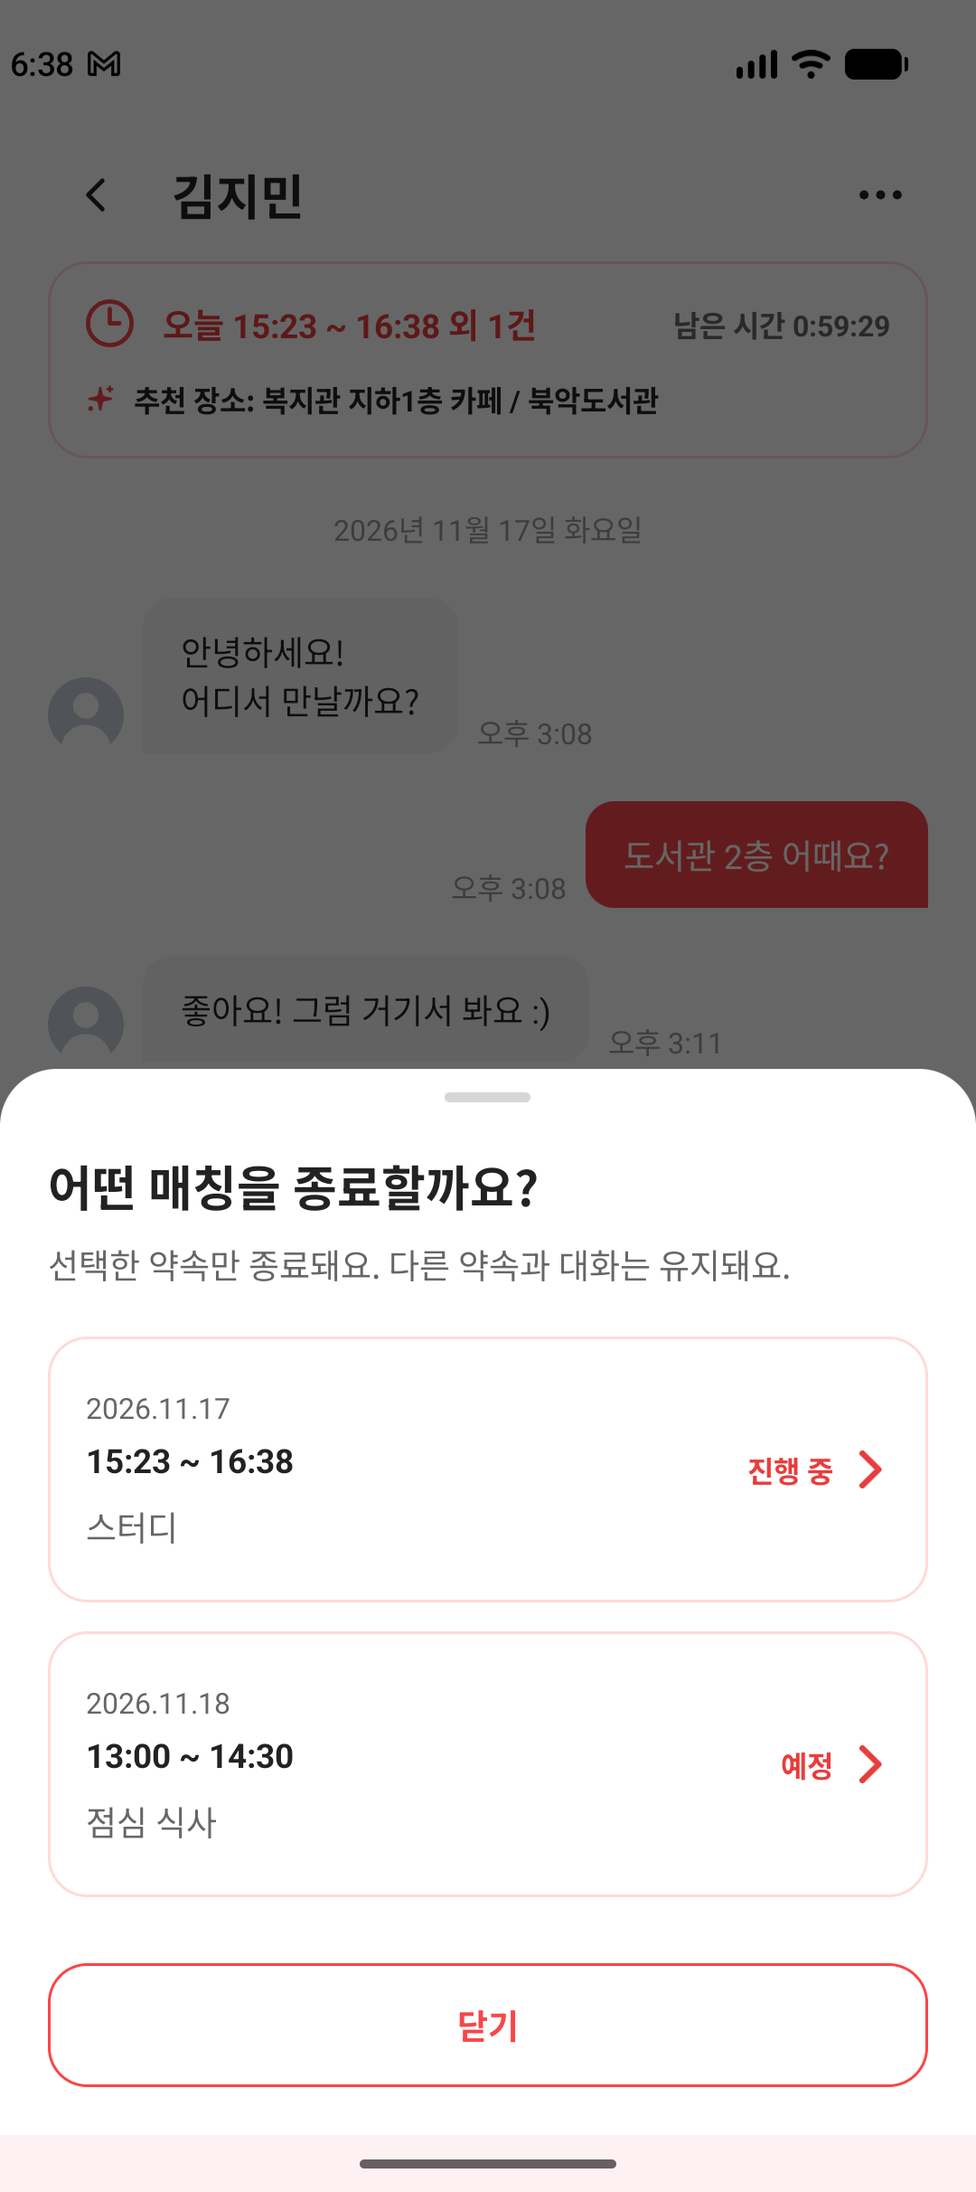
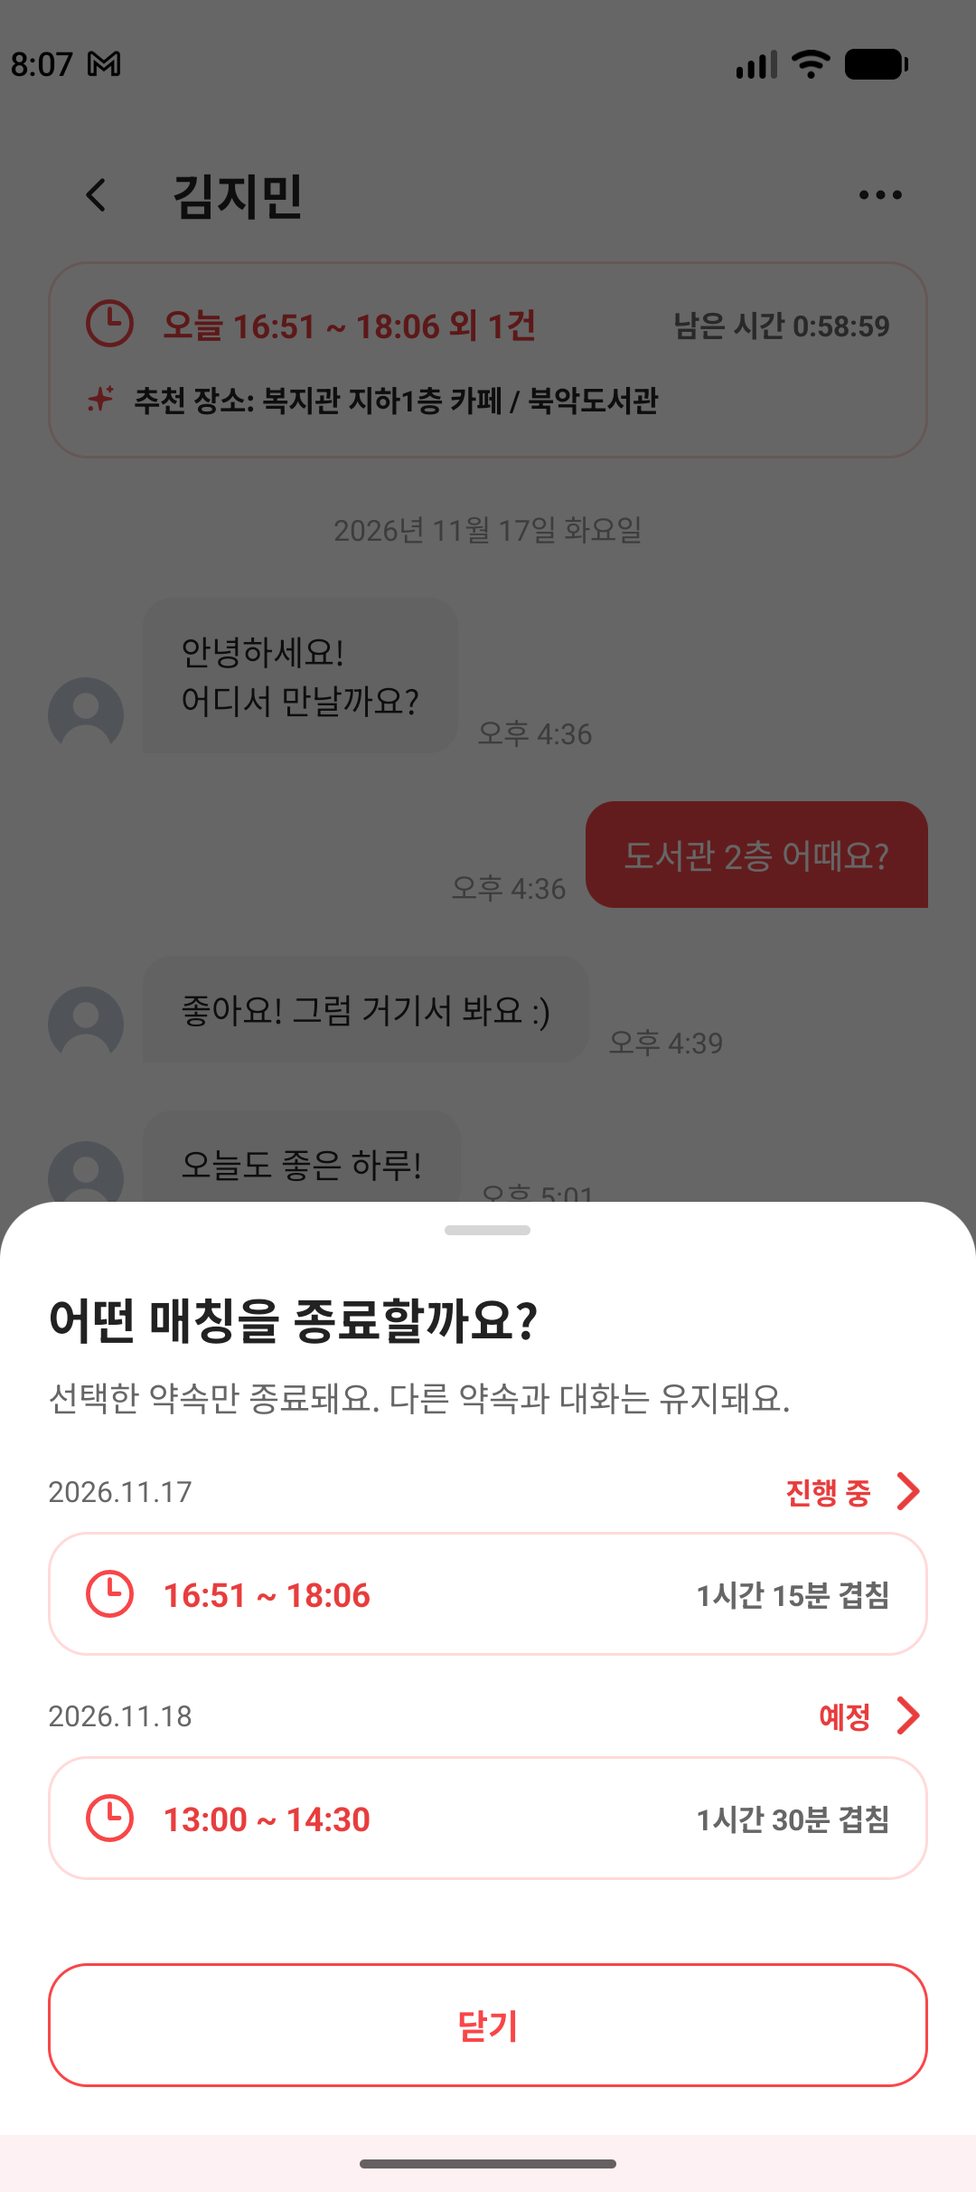
feat/타임매치 간략형 선택과 채팅 나가기 안내 적용

diff --git a/app/src/main/java/com/team4/bintime/chat/ChatRoomActivity.java b/app/src/main/java/com/team4/bintime/chat/ChatRoomActivity.java
@@ -82,6 +82,7 @@ public class ChatRoomActivity extends AppCompatActivity {
     private LinearLayout replyChips;
     private ArrayList<String> replies;
     private boolean actionInProgress, leaving, sending;
+    private boolean messagesLoaded, messagesEmpty;
     private View sendButton;
 
     @Override
@@ -142,6 +143,7 @@ public class ChatRoomActivity extends AppCompatActivity {
                 room = data;
                 adapter.setRoom(data);
                 bindRoom();
+                if (data.archived) messageList.post(ChatRoomActivity.this::scrollToLast);
                 refreshReviewStatus();
                 // 보고 있는 중에 서버 트리거가 내 안읽음 수를 올리면 바로 0 으로 되돌린다.
                 if (data.unreadCount > 0 && isResumedNow()) repository.markRead(matchId);
@@ -189,8 +191,9 @@ public class ChatRoomActivity extends AppCompatActivity {
         messageRegistration = repository.observeMessages(matchId, new ChatRepository.Listener<List<ChatMessage>>() {
             @Override
             public void onData(List<ChatMessage> data) {
+                messagesLoaded = true; messagesEmpty = data.isEmpty();
                 adapter.submit(data);
-                if (data.isEmpty()) {
+                if (data.isEmpty() && (room == null || !room.archived)) {
                     stateView.showEmpty(getString(R.string.chat_messages_empty_title),
                             getString(R.string.chat_messages_empty_message));
                 } else {
@@ -211,14 +214,13 @@ public class ChatRoomActivity extends AppCompatActivity {
     private void bindRoom() {
         ((TextView) findViewById(R.id.chatRoomTitle)).setText(room.otherName);
         boolean active = room.status == ChatRoom.Status.ACTIVE;
-        TextView archivedNotice = findViewById(R.id.chatArchivedNotice);
-        archivedNotice.setVisibility(room.archived ? View.VISIBLE : View.GONE);
         ChatComposer.bind(findViewById(R.id.chatComposer), room.archived, sending);
         findViewById(R.id.chatAiRow).setVisibility(room.archived ? View.GONE : View.VISIBLE);
         // 매칭 스냅샷(matches/{matchId})을 아직 못 받으면 확정 시간이 없다(BT-034 연결 전·문서 생성 전). 시간 카드를 숨긴다.
         boolean hasMatchTime = room.meetingDate != null && (room.appointments.isEmpty() || MatchAppointmentPolicy.representative(room.appointments, repository.nowMillis()) != null);
         findViewById(R.id.chatMatchInfo).setVisibility(active && hasMatchTime ? View.VISIBLE : View.GONE);
-        findViewById(R.id.chatEndedBanner).setVisibility(room.archived || active ? View.GONE : View.VISIBLE);
+        findViewById(R.id.chatEndedBanner).setVisibility(active ? View.GONE : View.VISIBLE);
+        if (room.archived && messagesLoaded && messagesEmpty) stateView.hide();
         if (active && hasMatchTime) bindMatchInfo();
         else bindReviewLink();
     }
@@ -263,12 +265,12 @@ public class ChatRoomActivity extends AppCompatActivity {
     private void bindReviewLink() {
         TextView link = findViewById(R.id.chatReviewLink);
         List<MatchAppointment> targets = MatchAppointmentPolicy.targets(reviewAppointments(), MatchAppointmentPolicy.Action.REVIEW);
-        link.setVisibility(targets.isEmpty() ? View.GONE : View.VISIBLE);
-        link.setText(targets.size() == 1 && targets.get(0).reviewWritten ? R.string.chat_review_view : R.string.chat_review_write);
+        link.setVisibility(room.archived || !targets.isEmpty() ? View.VISIBLE : View.GONE);
+        link.setText(room.archived || targets.size() == 1 && targets.get(0).reviewWritten ? R.string.chat_review_view : R.string.chat_review_write);
     }
 
     private void openReview() {
-        if (room == null || room.archived) return;
+        if (room == null) return;
         if (!MatchSelectionSheet.show(getSupportFragmentManager(), KEY_SELECT_REVIEW, MatchAppointmentPolicy.Action.REVIEW,
                 reviewAppointments(), repository.nowMillis())) Toast.makeText(this, R.string.appointment_no_target, Toast.LENGTH_SHORT).show();
     }
@@ -280,7 +282,7 @@ public class ChatRoomActivity extends AppCompatActivity {
         return result;
     }
     private void openSelectedReview(String id) {
-        if (room == null || room.archived || isFinishing() || isDestroyed()) return;
+        if (room == null || isFinishing() || isDestroyed()) return;
         MatchAppointment selected = MatchAppointmentPolicy.targets(reviewAppointments(), MatchAppointmentPolicy.Action.REVIEW).stream().filter(a -> a.matchId.equals(id)).findFirst().orElse(null);
         if (selected == null) return;
         if (AuthRepositories.isFirebaseEnabled(this)) { Toast.makeText(this, R.string.request_review_pending, Toast.LENGTH_SHORT).show(); return; }

diff --git a/app/src/main/java/com/team4/bintime/chat/ChatMessageAdapter.java b/app/src/main/java/com/team4/bintime/chat/ChatMessageAdapter.java
@@ -21,6 +21,7 @@ final class ChatMessageAdapter extends RecyclerView.Adapter<RecyclerView.ViewHol
     private static final int TYPE_DATE = 0;
     private static final int TYPE_INCOMING = 1;
     private static final int TYPE_OUTGOING = 2;
+    private static final int TYPE_PARTNER_LEFT = 3;
 
     private static final class Row {
         final String date;
@@ -42,7 +43,7 @@ final class ChatMessageAdapter extends RecyclerView.Adapter<RecyclerView.ViewHol
 
     void setRoom(ChatRoom room) {
         boolean avatarChanged = this.room == null || !this.room.otherName.equals(room.otherName)
-                || this.room.otherHasPhoto != room.otherHasPhoto;
+                || this.room.otherHasPhoto != room.otherHasPhoto || this.room.archived != room.archived;
         this.room = room;
         if (avatarChanged) notifyDataSetChanged();
     }
@@ -62,6 +63,7 @@ final class ChatMessageAdapter extends RecyclerView.Adapter<RecyclerView.ViewHol
 
     @Override
     public int getItemViewType(int position) {
+        if (position == rows.size() && room != null && room.archived) return TYPE_PARTNER_LEFT;
         ChatMessage message = rows.get(position).message;
         if (message == null) return TYPE_DATE;
         return Objects.equals(currentUid, message.senderId) ? TYPE_OUTGOING : TYPE_INCOMING;
@@ -74,12 +76,17 @@ final class ChatMessageAdapter extends RecyclerView.Adapter<RecyclerView.ViewHol
         if (viewType == TYPE_DATE) {
             return new DateHolder(inflater.inflate(R.layout.item_chat_date_divider, parent, false));
         }
+        if (viewType == TYPE_PARTNER_LEFT) return new LeftNoticeHolder(inflater.inflate(R.layout.item_chat_partner_left, parent, false));
         int layout = viewType == TYPE_OUTGOING ? R.layout.item_chat_message_outgoing : R.layout.item_chat_message_incoming;
         return new MessageHolder(inflater.inflate(layout, parent, false));
     }
 
     @Override
     public void onBindViewHolder(@NonNull RecyclerView.ViewHolder holder, int position) {
+        if (holder instanceof LeftNoticeHolder) {
+            ((LeftNoticeHolder) holder).notice.setText(holder.itemView.getContext().getString(R.string.chat_partner_left, room.otherName));
+            return;
+        }
         Row row = rows.get(position);
         if (holder instanceof DateHolder) {
             ((DateHolder) holder).date.setText(row.date);
@@ -93,7 +100,12 @@ final class ChatMessageAdapter extends RecyclerView.Adapter<RecyclerView.ViewHol
 
     @Override
     public int getItemCount() {
-        return rows.size();
+        return rows.size() + (room != null && room.archived ? 1 : 0);
+    }
+
+    private static final class LeftNoticeHolder extends RecyclerView.ViewHolder {
+        final TextView notice;
+        LeftNoticeHolder(View view) { super(view); notice = view.findViewById(R.id.chatPartnerLeftNotice); }
     }
 
     private static final class DateHolder extends RecyclerView.ViewHolder {

diff --git a/app/src/main/java/com/team4/bintime/request/MatchSelectionSheet.java b/app/src/main/java/com/team4/bintime/request/MatchSelectionSheet.java
@@ -12,6 +12,8 @@ import com.google.android.material.bottomsheet.BottomSheetBehavior;
 import com.google.android.material.bottomsheet.BottomSheetDialog;
 import com.google.android.material.bottomsheet.BottomSheetDialogFragment;
 import com.team4.bintime.R;
+import com.team4.bintime.common.TimeMatchViews;
+import com.team4.bintime.model.MatchFilter;
 import java.util.ArrayList;
 import java.util.List;
 import java.util.Locale;
@@ -47,9 +49,9 @@ public class MatchSelectionSheet extends BottomSheetDialogFragment {
         if (items != null) for (MatchAppointment item : items) {
             View row = inflater.inflate(R.layout.item_match_selection, rows, false);
             ((TextView) row.findViewById(R.id.appointmentDate)).setText(item.meetingDate.replace('-', '.'));
-            ((TextView) row.findViewById(R.id.appointmentTime)).setText(String.format(Locale.KOREA, "%02d:%02d ~ %02d:%02d",
-                    item.startMinute / 60, item.startMinute % 60, item.endMinute / 60, item.endMinute % 60));
-            ((TextView) row.findViewById(R.id.appointmentPurpose)).setText(item.purpose);
+            TimeMatchViews.bindCompact(row.findViewById(R.id.appointmentTimeMatch), String.format(Locale.KOREA, "%02d:%02d ~ %02d:%02d",
+                    item.startMinute / 60, item.startMinute % 60, item.endMinute / 60, item.endMinute % 60),
+                    getString(R.string.chat_overlap_duration, MatchFilter.formatDuration(item.endMinute - item.startMinute)));
             boolean ongoing = item.startAtMillis() <= requireArguments().getLong(NOW) && item.endAtMillis() > requireArguments().getLong(NOW);
             ((TextView) row.findViewById(R.id.appointmentStatus)).setText(action == MatchAppointmentPolicy.Action.REVIEW
                     ? item.reviewWritten ? R.string.appointment_review_written : R.string.appointment_review_available
@@ -62,7 +64,7 @@ public class MatchSelectionSheet extends BottomSheetDialogFragment {
         view.findViewById(R.id.matchSelectionClose).setOnClickListener(v -> dismiss());
         View scroll = view.findViewById(R.id.matchSelectionScroll);
         ViewGroup.LayoutParams params = scroll.getLayoutParams();
-        params.height = Math.min(com.team4.bintime.common.ChipViews.dp(requireContext(), Math.max(1, rows.getChildCount()) * 124),
+        params.height = Math.min(com.team4.bintime.common.ChipViews.dp(requireContext(), Math.max(1, rows.getChildCount()) * 96),
                 (int) (getResources().getDisplayMetrics().heightPixels * 0.45f)); scroll.setLayoutParams(params);
         return view;
     }

diff --git a/app/src/androidTest/java/com/team4/bintime/chat/AppointmentSelectionDeviceTest.java b/app/src/androidTest/java/com/team4/bintime/chat/AppointmentSelectionDeviceTest.java
@@ -56,7 +56,10 @@ public class AppointmentSelectionDeviceTest {
             scenario.onActivity(activity -> {
                 DialogFragment sheet = (DialogFragment) activity.getSupportFragmentManager().findFragmentByTag("chat.selectEnd");
                 assertNotNull(sheet); LinearLayout rows = sheet.requireView().findViewById(R.id.matchSelectionRows);
-                assertEquals(2, rows.getChildCount()); rows.getChildAt(1).performClick();
+                assertEquals(2, rows.getChildCount());
+                assertNotNull(rows.getChildAt(0).findViewById(R.id.appointmentTimeMatch));
+                assertEquals(android.view.View.GONE, rows.getChildAt(0).findViewById(R.id.timeOverlapDivider).getVisibility());
+                rows.getChildAt(1).performClick();
             }); idle(); screenshot("02-selected-end-confirm");
             scenario.onActivity(activity -> {
                 DialogFragment confirm = (DialogFragment) activity.getSupportFragmentManager().findFragmentByTag("chat.endMatch");
@@ -83,6 +86,12 @@ public class AppointmentSelectionDeviceTest {
                 assertEquals(activity.getString(R.string.chat_archive_read_only), ((TextView) activity.findViewById(R.id.chatInput)).getHint().toString());
                 assertFalse(activity.findViewById(R.id.chatSend).isEnabled());
                 assertFalse(activity.findViewById(R.id.chatMatchInfo).isShown());
+                assertTrue(activity.findViewById(R.id.chatEndedBanner).isShown());
+                assertEquals(activity.getString(R.string.chat_review_view), ((TextView) activity.findViewById(R.id.chatReviewLink)).getText().toString());
+                androidx.recyclerview.widget.RecyclerView messages = activity.findViewById(R.id.chatMessageList);
+                androidx.recyclerview.widget.RecyclerView.ViewHolder last = messages.findViewHolderForAdapterPosition(messages.getAdapter().getItemCount() - 1);
+                assertNotNull(last);
+                assertTrue(last.itemView.findViewById(R.id.chatPartnerLeftNotice).isShown());
             }); screenshot("04-archived-conversation");
         }
     }

diff --git a/app/src/main/java/com/team4/bintime/common/TimeMatchViews.java b/app/src/main/java/com/team4/bintime/common/TimeMatchViews.java
@@ -1,0 +1,26 @@
+package com.team4.bintime.common;
+
+import android.view.Gravity;
+import android.view.View;
+import android.widget.LinearLayout;
+import android.widget.TextView;
+import com.team4.bintime.R;
+
+/** 기존 view_time_overlap의 Figma Type=Compact(27:1875) 표현. 상세 화면 기본 모양은 바꾸지 않는다. */
+public final class TimeMatchViews {
+    private TimeMatchViews() {}
+    public static void bindCompact(View timeMatch, String time, String duration) {
+        timeMatch.findViewById(R.id.timeOverlapDivider).setVisibility(View.GONE);
+        timeMatch.findViewById(R.id.reasons).setVisibility(View.GONE);
+        timeMatch.findViewById(R.id.aiPlace).setVisibility(View.GONE);
+        TextView timeView = timeMatch.findViewById(R.id.time);
+        TextView durationView = timeMatch.findViewById(R.id.duration);
+        timeView.setText(time); durationView.setText(duration);
+        LinearLayout.LayoutParams timeParams = (LinearLayout.LayoutParams) timeView.getLayoutParams();
+        timeParams.width = 0; timeParams.weight = 1; timeParams.setMarginStart(ChipViews.dp(timeMatch.getContext(), 12));
+        timeView.setLayoutParams(timeParams);
+        LinearLayout.LayoutParams durationParams = (LinearLayout.LayoutParams) durationView.getLayoutParams();
+        durationParams.width = 0; durationParams.weight = 1;
+        durationView.setLayoutParams(durationParams); durationView.setGravity(Gravity.END | Gravity.CENTER_VERTICAL);
+    }
+}

diff --git a/docs/BT-033.md b/docs/BT-033.md
@@ -33,11 +33,11 @@
 | 새 방 준비 | 준비 전 전송·진입 | 새 매칭 chatReady=false에서 시작. 방·양측 참여자·사용자별 목록 연결이 준비된 뒤 true |
 | 기존 방에서 둘 다 나감 | 불필요한 방 잔존 | 기존 채팅방 삭제. 매칭 종료만으로는 삭제하지 않음. 과거 매칭 스냅샷 삭제와 구분 |
 | 이전 방과 새 방 혼동 | 같은 상대의 두 방 구분 불가 | 기존 카드 이름 옆 ‘이전 대화’ 배지, 보조 문구 ‘상대가 나간 대화방이에요’ |
-| 이전 방 내부 | 전송 불가 이유 불명확 | ‘상대가 나간 대화방이에요. 이전 메시지만 확인할 수 있어요.’ 안내. 입력창 대신 ‘기록 열람만 가능해요’ 표시 |
+| 이전 방 내부 | 전송 불가 이유 불명확 | 상단은 기존 ‘종료된 매칭이에요 / 매칭 후기 보기’ 컴포넌트. 마지막 대화 아래 회색 배경·둥근 모서리·중앙 정렬로 상대 나가기 안내. 기존 입력창을 비활성화하고 ‘기록 열람만 가능해요’ 표시 |
 | 탭 분류 | 별도 탭·독자 UX 추가 | 전체 / 매칭됨 / 매칭종료 유지. 이전 대화는 전체·매칭종료에 표시 |
 | 둘 다 남은 ENDED 방 | 종료 이벤트가 전송을 차단 | 종료 후에도 대화 허용. ‘이전 대화’ 배지는 붙이지 않음 |
 | ACTIVE 방 나가기 | 진행 중 매칭의 참여자가 이탈 | 기존 불변 조건 유지: ACTIVE 중 나가기 불가. ENDED 이후 나가기 허용 |
-| 여러 약속 중 특정 매칭 종료 | 다른 매칭까지 함께 종료 | 방에 연결된 미종료 약속에서 날짜·시간·목적·상태를 보고 한 건 선택 후 확인. 선택한 matchId만 ENDED로 전환하고 나머지 매칭·채팅방은 유지 |
+| 여러 약속 중 특정 매칭 종료 | 다른 매칭까지 함께 종료 | 미종료 약속을 TimeMatch 간략형 리스트로 표시. 목적 문구는 생략하고 날짜·시간·겹침 시간·상태로 선택 후 확인. 선택한 matchId만 ENDED로 전환하고 나머지 매칭·채팅방은 유지 |
 | 시작 전 예정 약속 수동 종료 | 요청 취소 정책과 혼동 | 사용자 명시 결정으로 예정 약속도 수동 종료 허용. ACCEPTED 요청을 CANCELED로 되돌리지 않고 확정 매칭을 ENDED로 전환. 실제 동작은 BT-038 담당 |
 | 여러 약속의 후기 선택 | 방 단위로 후기 중복·오작성 | 종료된 매칭별로 선택. 본인 미작성은 작성, 작성 완료는 조회로 연결. 매칭당 사용자당 한 건·상대 후기 공개 조건 유지. 실제 후기 저장은 E의 BT-044 담당 |
 
@@ -91,3 +91,5 @@ BT-031의 원자적 확정 생성에 chatLinkJobs를 추가하고, Firestore →
 로컬 브랜치 작업 순서는 feature/request-BT-031 → feature/request-BT-032 → feature/request-BT-033이며 뒤 브랜치에 선행 코드가 포함된다. 각 PR은 선행 브랜치 또는 병합된 develop과 비교해야 중복 변경을 피할 수 있다. 아직 원격 푸시/PR 생성은 하지 않았다.
 
 개발 중 추가 확정 정책은 [기존 Notion 결정표](https://app.notion.com/p/41b7246035488132bd1fc81611e32933)의 §5에 추가했다. 내부 구현 경로·검증 상세는 Notion에 게시하지 않고 이 문서와 BT-034/035에 남겼다.
+
+최종 UI 보완: Figma TimeMatch Compact(27:1875)를 확인하여 기존 view_time_overlap에 common/TimeMatchViews.bindCompact를 적용했다. 선택 목록의 목적 문구를 생략하고 날짜·시간·겹침·상태로 간소화했다. 보관 방 상단은 기존 종료/후기 컴포넌트로 복원하고 나가기 안내는 마지막 메시지 다음의 가상 시스템 행으로 옮겼다. 빌드·단위 테스트 446개·lint 성공 후 Pixel 10 연결이 끊겨 AVD를 보이는 창으로 다시 켰고, 최신 UI의 선택/회전/개별 종료/나가기 안내·비활성 입력을 2개 테스트로 재검증해 통과했다. PNG 4개를 최신 화면으로 교체했다. 서버/권한 로직은 이 UI 보완에서 변경하지 않았다.

diff --git a/docs/BT-035.md b/docs/BT-035.md
@@ -13,7 +13,7 @@
 | 미래 약속 | ‘예정’ 표시. 시작 전을 이미 만남 중인 것으로 표시하지 않음 |
 | 남은 시간 | 대표 약속 종료 시각 기준, 음수 방지 |
 | 전부 ENDED | 종료 안내. 양측 잔류 방은 계속 대화 가능 |
-| 이전 대화 | archived 우선. 시간 카드/AI 대신 기록 안내와 기존 MessageComposer 비활성 상태 |
+| 이전 대화 | 상단 기존 종료·후기 보기 컴포넌트. 마지막 말풍선 아래 회색·중앙·둥근 나가기 안내, 기존 MessageComposer 비활성 상태 |
 | 종료·후기 | 상단 대표를 자동 선택하지 않고 개별 matchId 선택. 예정 약속 종료 허용, 시작 전 종료는 후기 영구 제외 |
 
 ACTIVE 약속이 하나라도 남은 방의 나가기 금지를 BT-043과 공유한다. 실제 종료와 후기 자격은 BT-038/044 서버가 검증한다.
@@ -32,6 +32,7 @@ Android 공통 경로: app/src/main/java/com/team4/bintime/.
 | chat/ChatRepository.nowMillis() | 표시용 시각. Firebase는 RTDB .info/serverTimeOffset 보정, Mock은 주입 Clock |
 | chat/ChatRoomActivity | RESUMED 중 1초 갱신, onPause/onDestroy 타이머 해제, 복귀 시 대표·후기 상태 재계산 |
 | request/MatchSelectionSheet | BT-034 §5의 Fragment Result와 공개 API로 종료/후기 선택. 최신 목록·서버에서 다시 검증 |
+| common/TimeMatchViews.bindCompact | 기존 view_time_overlap 재사용. 날짜·시간·겹침 시간·상태로 목록 구성, 목적 문구 생략 |
 | chat/ChatComposer.bind(view, readOnly, sending) | 기존 입력창 형태를 유지하면서 입력·전송 비활성, ‘기록 열람만 가능해요’ hint 적용 |
 
 서버 시각 보정은 화면용 추정값이다. 카운트다운 0만 보고 Android가 matches.status를 쓰지 않는다. 자동/수동 종료·reviewEligible 확정은 BT-038 경로다.
